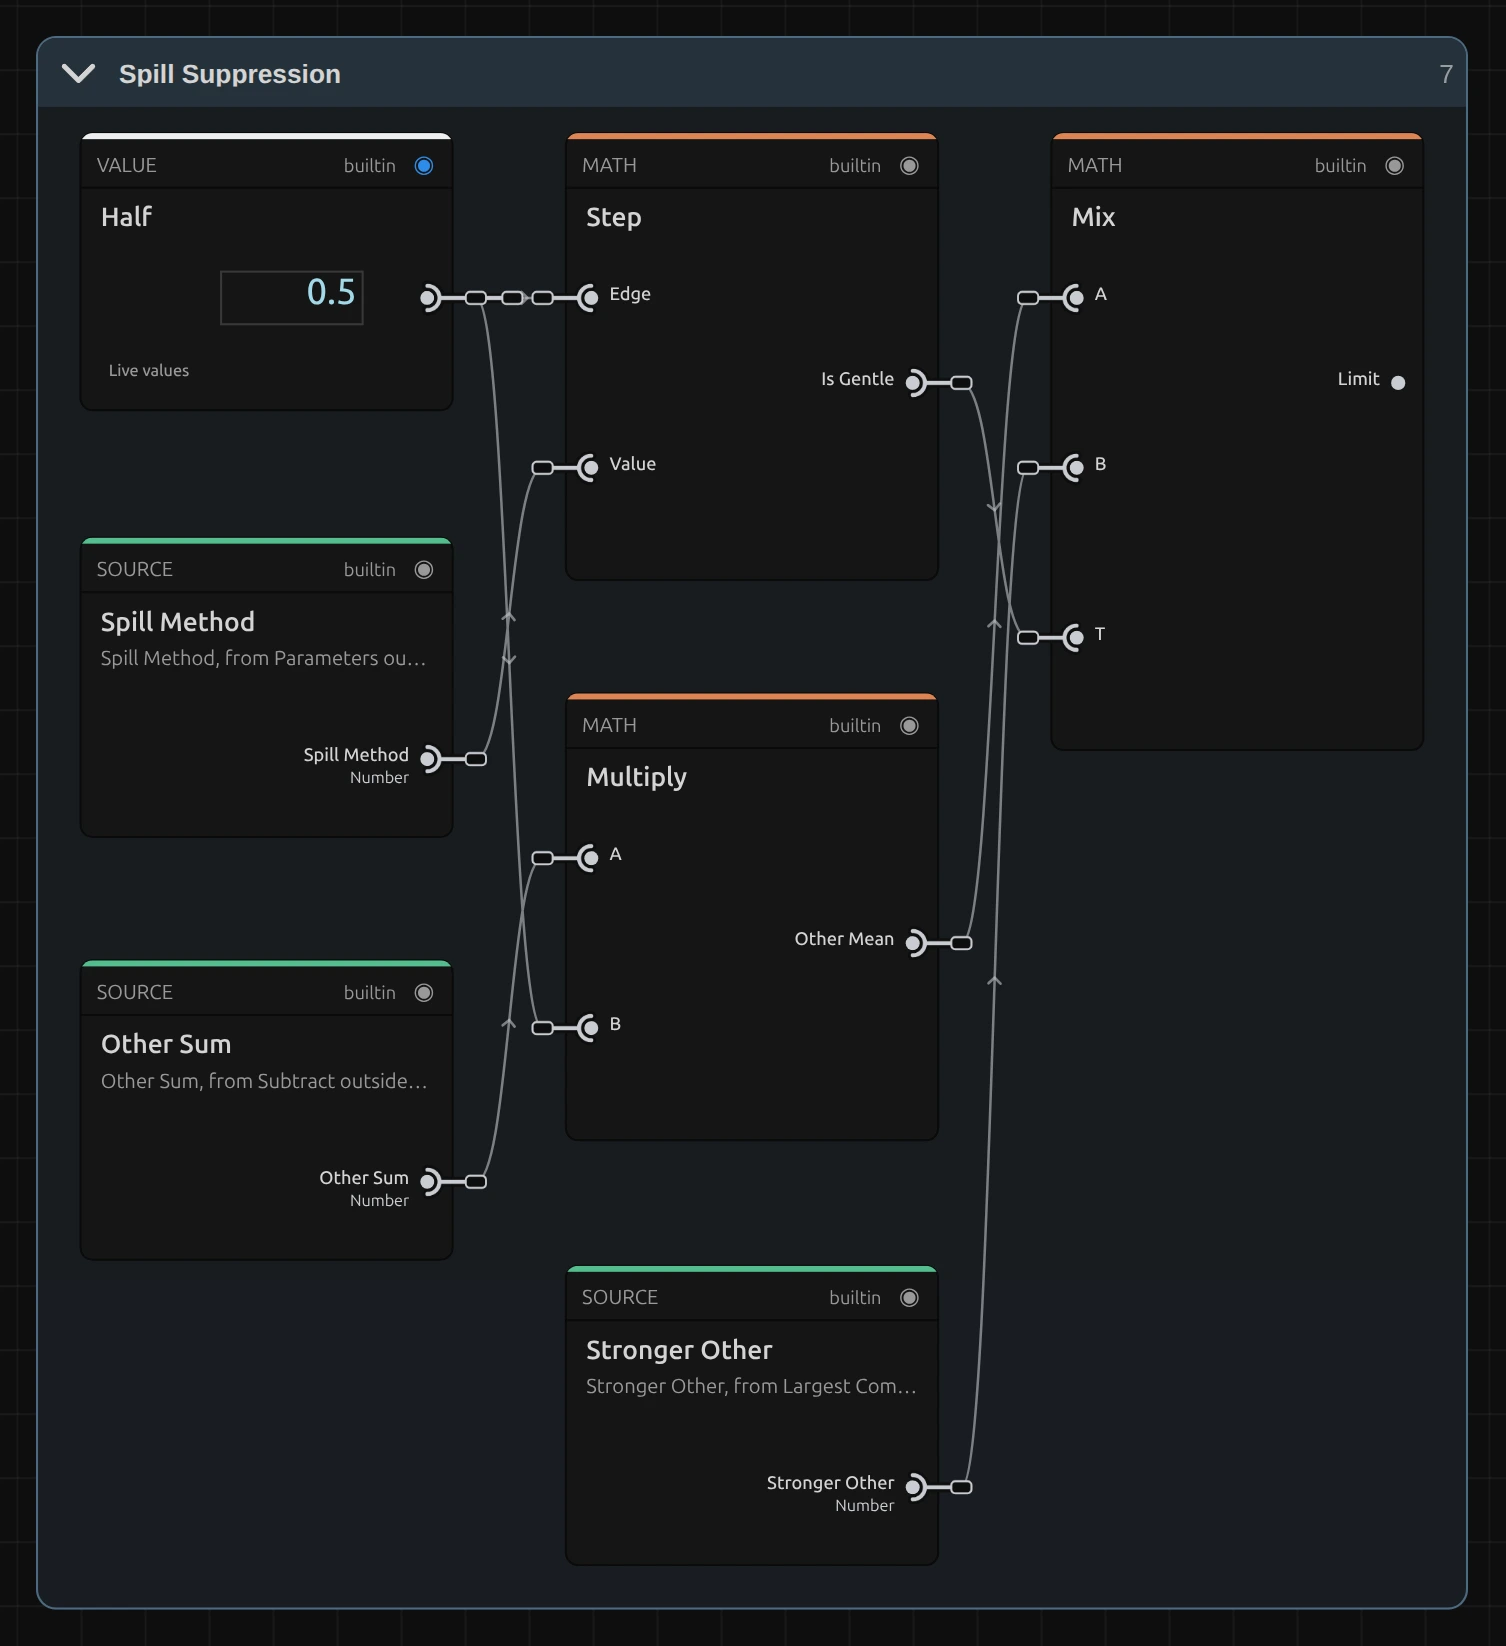
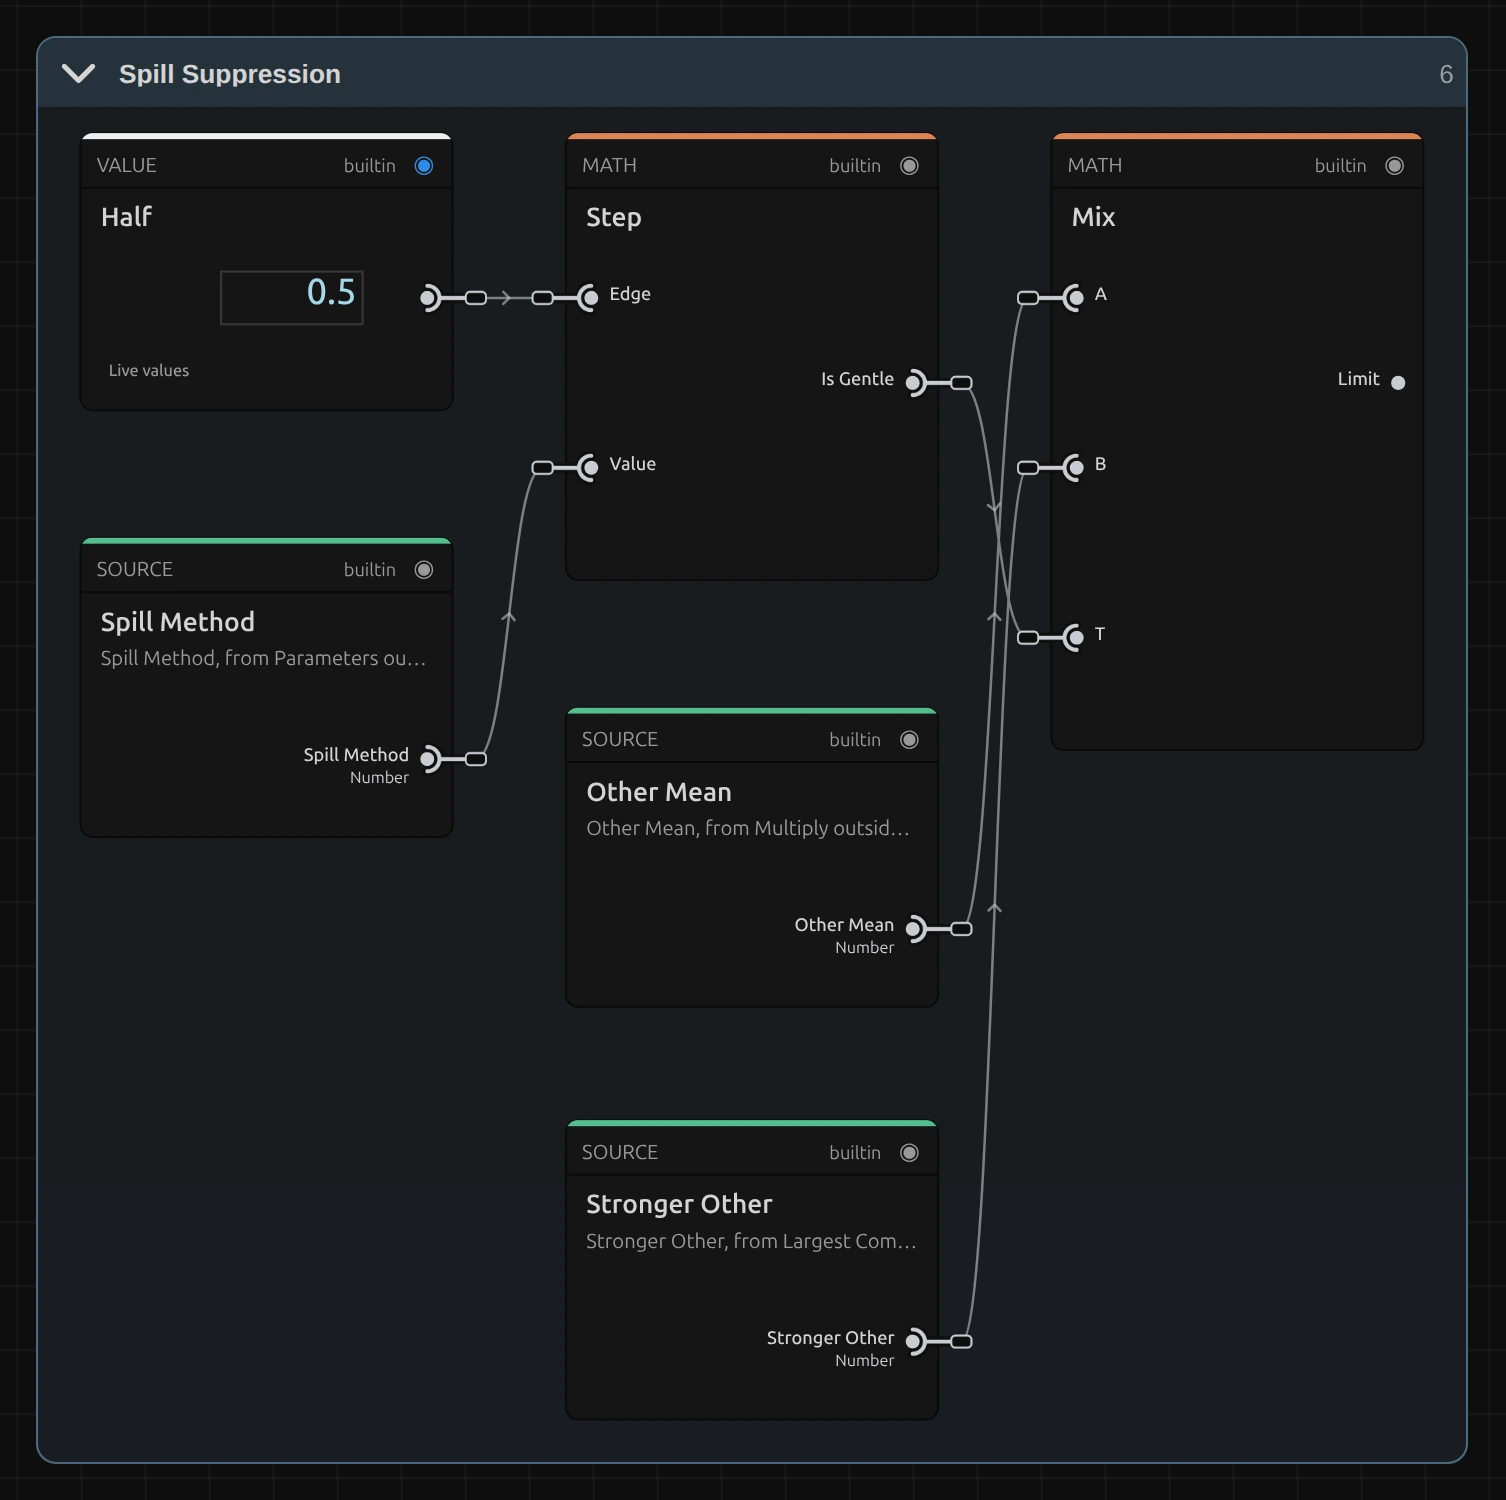
docs: balance the Keying and Time Effects floats, trim the top-level saved-project note, correct the alt texts and the Motion compensation tip, re-shoot the Spill recipe with a callout on Mix input T, list the page in the feature index and place the Slit Scan 3D switch below Preview quality
Claude-Session: https://claude.ai/code/session_01SPCZUmow7FhgFsrvju87Zb

diff --git a/docs/Features/Effects-Keying-Time.md b/docs/Features/Effects-Keying-Time.md
@@ -10,7 +10,7 @@ Time Stack and Slit Scan under **Time**).
 ### Chroma Key
 <figure class="docs-shot docs-shot--float-right">
 
-![Left: a dancer leaping in front of an unevenly lit green screen, with curly hair and a chiffon scarf. Right: the same shot keyed with Chroma Key at its default settings over a dark blue background; the flyaway hair and the see-through scarf keep their detail and show no green edge](assets/effects/chroma-key.webp)
+![Left: a dancer leaping in front of an unevenly lit green screen, with curly hair and a chiffon scarf. Right: the same shot keyed with Chroma Key at its default settings over a dark blue background; the flyaway hair keeps its detail and no green edge remains, while the chiffon scarf turns mostly solid grey with violet patches at its lower end](assets/effects/chroma-key.webp)
 
 <figcaption>Left: green-screen shot. Right: Chroma Key, default settings, over dark blue.</figcaption>
 </figure>
@@ -25,7 +25,7 @@ Time Stack and Slit Scan under **Time**).
 Makes a green or blue screen transparent, so the performer can stand in front of
 any background. It finds the screen colour in the picture by itself, and hair,
 fine fabric and edges take on the new background instead of a green rim.
-- **Screen** – Green, Blue, or a colour you pick from the screen.
+- **Screen** – Green, Blue, or a colour you pick from the screen. The inspector says so when the clip shows no such screen.
 - **Clip Black / Clip White** – raise Clip Black until the background is gone, lower Clip White until the performer is solid. **View → Matte** shows this in black and white.
 - **Shrink / Grow** and **Softness** (Edge) – pull the edge in or out and soften it, in pixels of a 1080p picture.
 - **Suppression** and **Method** (Spill) – remove the green glow; Method **Gentle** keeps yellow costumes yellow.
@@ -37,25 +37,29 @@ performer.
 <div class="docs-float-end"></div>
 
 ### Time Stack
+
+Shows delayed copies of a moving video clip at once, like a long-exposure photo
+of a dance. The trail builds up over the clip's first seconds.
+
 <figure class="docs-shot docs-shot--float-left">
 
-![Left: a dancer turning on a dark stage. Right: Time Stack at its default settings (Lighten, Decay 0.8): fainter and fainter copies of her arms, hair and dress trail off to the right](assets/effects/time-stack.webp)
+![Left: a dancer turning on a dark stage. Right: Time Stack at its default settings (Lighten, Decay 0.8): fainter and fainter copies of her arms, hair and dress fan out around her as she turns](assets/effects/time-stack.webp)
 
 <figcaption>Left: original. Right: default settings (Lighten, Decay 0.8).</figcaption>
 </figure>
 
-Shows several delayed copies of a moving clip at once, like a long-exposure photo
-of a dance. Works on video clips.
-- **Instances** – how many copies (up to 32).
-- **Time offset** – time between copies; 20 copies 0.1 s apart span 1.9 s.
-- **Decay** – 0.8 (default) fades older copies like an echo, 1 keeps them equal.
-- **Blend mode** – Lighten (default) for a lit dancer on a dark stage, Darken for a dark one on light. Normal covers the current frame.
-
-Tip: the trail builds up at the start of the clip, as each copy's moment is reached.
+- **Instances** – number of copies (up to 32).
+- **Time offset** – time between copies.
+- **Decay** – 0.8 fades older copies; 1 keeps them equal.
+- **Blend mode** – Lighten for lit dancers on dark stages, Darken for the reverse.
 
 <div class="docs-float-end"></div>
 
 ### Slit Scan
+
+Shows each part of a video clip's frame from a different moment, so movement
+smears and folds through the picture: the classic slit-scan look.
+
 <figure class="docs-shot docs-shot--float-right">
 
 ![Left: the dancer turning on a dark stage, seen from behind. Right: Slit Scan with the Time steps look at the same moment: the picture is cut into vertical bands, each from a slightly earlier moment towards the right, so her face, arms and dress are assembled from strips that do not line up and a hand floats detached at the left](assets/effects/slit-scan.webp)
@@ -63,28 +67,22 @@ Tip: the trail builds up at the start of the clip, as each copy's moment is reac
 <figcaption>Left: original. Right: the Time steps look; each band further right is further back in time (up to 2 s).</figcaption>
 </figure>
 
-Shows each part of the frame from a different moment, so movement smears and
-folds through the picture: the classic slit-scan look. Works on video clips.
 - **Look** – a starting point: Sweep, Falling time, Center out, Wave folds, Radial bloom, Time rings or Time steps.
-- **Delay** – how far back in time the picture reaches, in seconds (1 by default).
-- **Profile** and **Scan direction** – the shape of the time gradient: which part of the frame shows now and which the past.
-
-Tip: fast limbs break into a row of soft ghosts; **Sampling → Motion compensation**
-turns them into one continuous smear. Give a new Slit Scan a moment to load its frames;
-until the whole time window is ready, the preview shows the plain clip.
-
-**Known limitations:** Chroma Key measures one screen colour for the whole frame, so
-on a very unevenly lit screen see-through areas such as chiffon can come out a little
-too light or too dark; Time Stack and Slit Scan need a video clip, not a still image or
-a nested composition.
-
-**Saved projects:** a Chroma Key from an older project switches to the new keyer; its
-Spill Suppression stays, an old Tolerance or Edge Softness no longer acts, and the
-inspector names them (a Chroma Key whose nodes you edited keeps the old key and its
-controls). Time Stack keeps its look. A Slit Scan set to Radial scan or Time rings
-now shows that profile; with Protected center off it used to show Wave.
+- **Delay** – how far back in time the picture reaches (1 s).
+- **Profile** and **Scan direction** – the shape of the time gradient.
 
 <div class="docs-float-end"></div>
+
+Tip: fast limbs break into a row of soft ghosts; switch on the **Motion compensation**
+section (its header switch) to turn them into one continuous smear. A new Slit Scan
+needs a moment to load its frames.
+
+**Known limitations:** Chroma Key measures one screen colour for the whole frame, so
+see-through fabric such as chiffon can come out greyish or blotchy; Time Stack and
+Slit Scan need a video clip, not a still image or a nested composition.
+
+**Older projects:** Chroma Key switches to the new keyer and the inspector lists
+retired values; Time Stack keeps its look.
 
 ## How the keying and time effects are built
 
@@ -137,28 +135,31 @@ chiffon), and **Spill Suppression** removes the green glow.
 
 <div class="docs-shot-stage">
 
-![The limit of Chroma Key's Spill Suppression as a recipe: Half and Spill Method feed Step, whose Is Gentle output feeds input T of Mix; Other Sum times Half gives Other Mean, which feeds input A of Mix; Stronger Other feeds input B; Mix outputs the Limit](assets/effects/graphs/chroma-key-spill.webp)
+![The limit of Chroma Key's Spill Suppression as a recipe: Half (0.5) feeds the Edge and Spill Method the Value of Step, whose Is Gentle output feeds input T of Mix; Other Mean feeds input A of Mix and Stronger Other input B; Mix outputs the Limit](assets/effects/graphs/chroma-key-spill.webp)
 
-<svg class="docs-shot-overlay" viewBox="0 0 1017 1112" aria-hidden="true" focusable="false">
+<svg class="docs-shot-overlay" viewBox="0 0 1017 1013" aria-hidden="true" focusable="false">
 <defs><marker id="chroma-key-spill-arrow" viewBox="0 0 10 10" refX="8" refY="5" markerWidth="5" markerHeight="5" orient="auto-start-reverse"><path d="M 0 0 L 10 5 L 0 10 Z" fill="#ffd54a" /></marker></defs>
 <path class="docs-shot-arrow" d="M508 22 L508 84" marker-end="url(#chroma-key-spill-arrow)" />
 <circle class="docs-shot-number" cx="508" cy="22" r="18" /><text x="508" y="22" class="docs-shot-number-text">1</text>
 <path class="docs-shot-arrow" d="M836 22 L836 84" marker-end="url(#chroma-key-spill-arrow)" />
 <circle class="docs-shot-number" cx="836" cy="22" r="18" /><text x="836" y="22" class="docs-shot-number-text">2</text>
+<path class="docs-shot-arrow" d="M866 430 L772 430" marker-end="url(#chroma-key-spill-arrow)" />
+<circle class="docs-shot-number" cx="866" cy="430" r="18" /><text x="866" y="430" class="docs-shot-number-text">3</text>
 </svg>
 </div>
 
-<figcaption>Spill Suppression: the limit for the screen channel. 1 — Step. 2 — Mix.</figcaption>
+<figcaption>Spill Suppression: the limit for the screen channel. 1 — Step. 2 — Mix. 3 — input T of Mix.</figcaption>
 </figure>
 
 The screen channel (green on a green screen) may be no stronger than the other two
 channels allow. **Step** (1) turns Spill Method into 0 (Neutral) or 1 (Gentle), and
-**Mix** (2) picks the **Limit**: A, the mean of the other two channels (**Other
-Mean**), or B, the stronger of them (**Stronger Other**). After this recipe a
-**Subtract** and a **Maximum** keep what lies above the limit, a **Multiply** scales it
-by Strength (Spill Suppression), and a last **Subtract** takes it out of the colour.
+**Mix** (2) uses it at input T (3) to pick the **Limit**: A, the mean of the other two
+channels (**Other Mean**), or B, the stronger of them (**Stronger Other**). After this
+recipe a **Subtract** and a **Maximum** keep what lies above the limit, a **Multiply**
+scales it by Strength (Spill Suppression), and a last **Subtract** takes it out of the
+colour.
 
-Remix: for a limit halfway between Neutral and Gentle, unplug **Step** from input T
+Remix: for a limit halfway between Neutral and Gentle, unplug **Step** from input T (3)
 of **Mix** and plug a **Value** of 0.5 into T.
 
 ### Time Stack and Slit Scan: reading the past
@@ -245,16 +246,16 @@ compilation in [Operator Graph Compiler](./Operator-Graph-Compiler.md).
   and 0.85). Shrink / Grow (−20 to 20) and Edge Softness (0 to 20) are pixels of a
   1080p frame (its shorter side) and scale with the render size; each adds two
   separable Gaussian passes (up to 32 taps per side) only while it is not 0.
-- **Chroma Key limits.** One screen colour per frame; local Screen Grid colours are
-  used only for screen subtraction. Out-of-range values are used at their limit,
-  values that are not a number (NaN, null, text) at their default, and a Clip Black at
-  or above Clip White makes a hard cut; the inspector names each case and tool results
-  report unusable numbers. A frame without screen colour keys nothing; only
-  **View → Matte** shows that (all white). The worker CPU keyer (software preview and
-  export readback) uses the same grid and subtraction with scalar per-pixel work
-  (a 1080p frame in well under 0.3 s). It has no edge kernel and keys only a layer
-  whose sole effect is Chroma Key, so it declines Shrink / Grow, Edge Softness or
-  other effects on the layer instead of rendering them differently.
+- **Chroma Key values.** Out-of-range values are used at their limit, values that are
+  not a number (NaN, null, text) at their default, and Clip Black at or above Clip
+  White makes a hard cut; the inspector names each case and tool results report
+  unusable numbers. A clip without screen colour keys nothing: the inspector and
+  `addEffect`/`updateEffect` say so, checked on the clip's thumbnails (`screenProbe.ts`).
+- **Chroma Key on the worker CPU.** Software preview and export readback key with
+  scalar per-pixel code (the key of a 1080p frame in under 0.1 s, the whole worker
+  pixel pass in about 0.3–0.4 s), also for the untouched graph every loaded project
+  stores; the graph interpreter needed about a minute per frame. It keys only a layer whose sole effect is one
+  Chroma Key without Shrink / Grow or Edge Softness, and declines anything else.
 - **Time Stack.** Up to 32 instances, Time offset 0–10 s; instance i reads
   t − i × offset with opacity decay^i (Decay 0.8 by default, clamped to 0.0001–1,
   reported). Sequence Blend draws the current frame first, so in Normal the older
@@ -268,15 +269,14 @@ compilation in [Operator Graph Compiler](./Operator-Graph-Compiler.md).
   Wave values and show Custom once one differs or is animated. The first load of the
   frame window takes a few seconds; until it is ready the preview shows the plain clip.
 - **Saved projects.** Untouched Rec.601 Chroma Key graphs upgrade to the new keyer:
-  stored Spill Suppression stays, Clip Black/White and the edge use their defaults, the
-  old Tolerance/Edge Softness (values and keyframes) no longer act and the inspector
-  lists them; the old Custom choice keyed pure green and now keys the picked colour
-  (#4C9A55 unless one is stored), which the inspector says too. Edited graphs keep the
-  old key with its Tolerance and Edge Softness rows. Time Stacks saved before Decay load
-  with Decay 1 (identical output) and keep their blend mode. Slit Scan graphs with the
+  stored Spill Suppression stays, Clip Black/White and the edge use their defaults, and
+  the inspector lists the old Tolerance/Edge Softness values and keyframes that no
+  longer act; the old Custom choice keyed pure green and now keys the picked colour
+  (#4C9A55 unless one is stored). Edited graphs keep the old key with its Tolerance and
+  Edge Softness rows (keyframable). A Time Stack stored without Decay (project or
+  preset) renders with Decay 1 (identical output) everywhere. Slit Scan graphs with the
   radial profiles in the Protected Center folder are regrouped, so Radial scan and Time
-  rings render (they showed Wave while that folder was muted). Older Slit Scans without
-  a stored interpolation already blended.
+  rings render (they showed Wave while that folder was muted).
 - **Pictures on this page.** `scripts/effect-graph-shot.mjs` and
   `scripts/effect-editor-shot.mjs`, each with a `keying-time.json` manifest
   (`scripts/effect-*-shots/`); the stills come from `scripts/effect-lab.mjs`.

diff --git a/docs/Features/README.md b/docs/Features/README.md
@@ -76,6 +76,7 @@ MasterSelects is a browser-based WebGPU compositor and media editor with timelin
 | [MXF Browser Decode](./MXF-Browser-Decode.md) | In development (flag `mxfBrowserDecode`): TypeScript MXF demux and metadata, per-essence decode via WebCodecs, TurboRes, or an LGPL libavcodec WASM build |
 | [Effects](./Effects.md) | 98-effect registry, live media thumbnails, fisheye lens correction, glyph/compute/tracking runtimes, physical PAL/RF/VHS emulation, split compare, and timeline transitions |
 | [Blur Effects](./Effects-Blur.md) | The five blurs with before/after pictures, their controls in the editor, the node graphs behind them, and technical notes |
+| [Keying and Time Effects](./Effects-Keying-Time.md) | Chroma Key, Time Stack and Slit Scan with before/after pictures, inspector, graph recipes and technical notes |
 | [Slit Scan 3D](./Slit-Scan-3D.md) | Reference time surfaces, DIS deformation, source-pair motion bands, scene cameras and geometry settings |
 | [Memory Leak](./Memory-Leak.md) | Generator that shows real leftover bytes of the FFmpeg wasm heap as 8/16/32-bit pixels, with clip feeding, per-frame motion, and freezable blocks |
 | [Color Correction](./Color-Correction.md) | Node/list color tab, graph data model, GPU pipeline, scopes, and realtime grading workflow |

diff --git a/docs/Features/Slit-Scan-3D.md b/docs/Features/Slit-Scan-3D.md
@@ -145,7 +145,7 @@ are reported; export rejects missing observations instead of substituting a mesh
 
 ## Scene and export
 
-The **3D geometry** switch appears at the top of the Slit Scan inspector.
+The **3D geometry** switch appears below the Preview quality section of the Slit Scan inspector.
 Bypassing restores both the 2D representation and the clip's 2D layer mode,
 including clips that were already 3D before the effect was enabled. It remembers the selected 3D mode
 and its settings. Pending geometry analysis stops after its submitted GPU pair;
